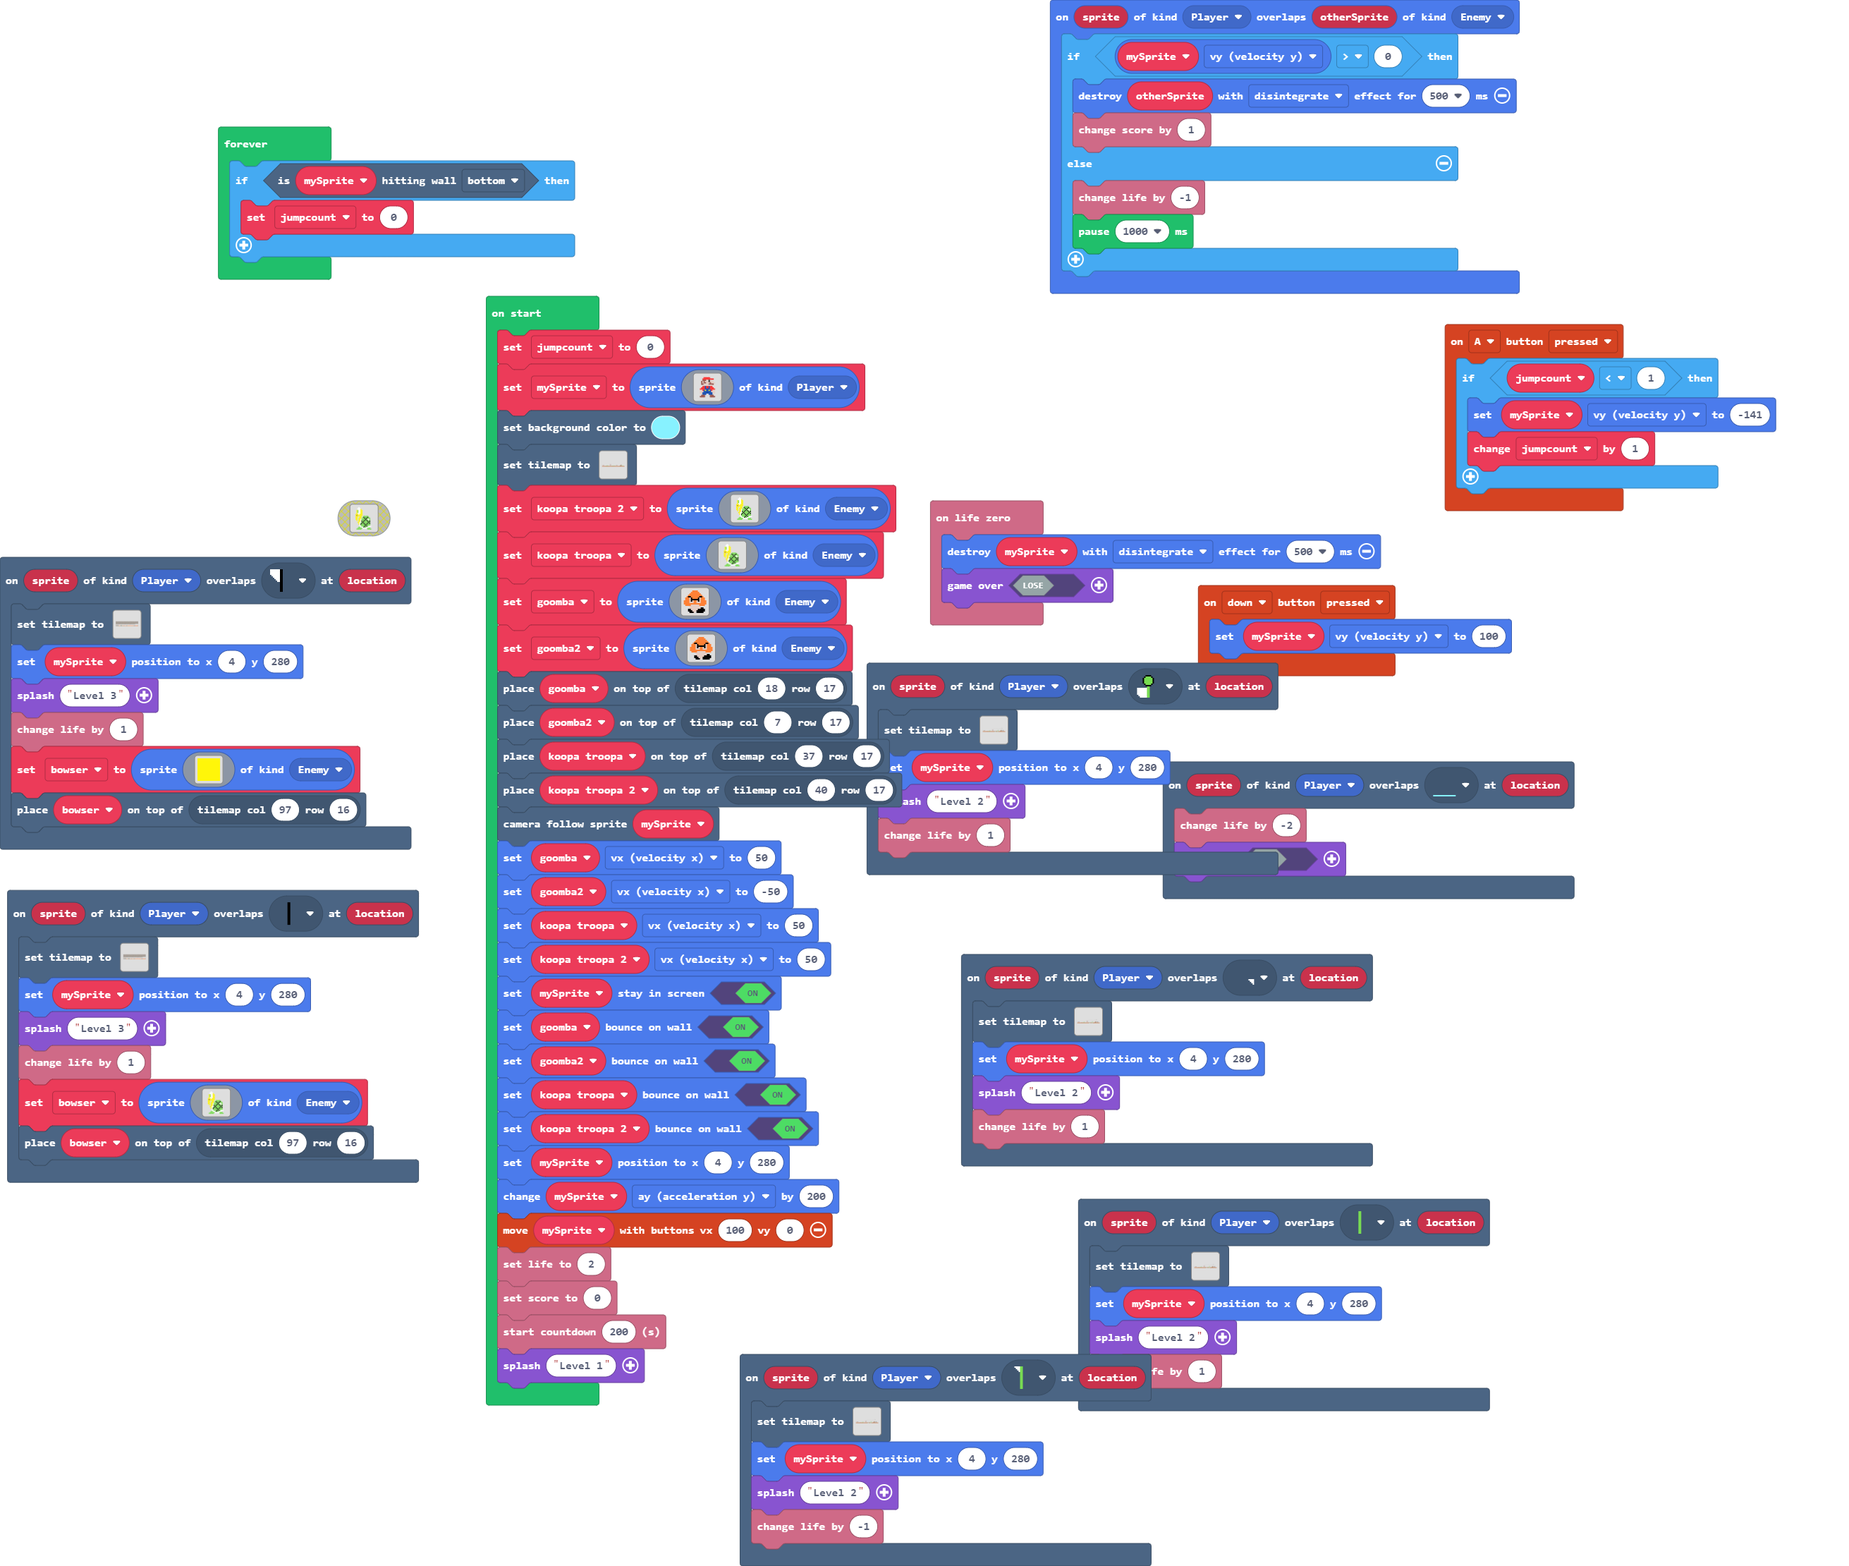
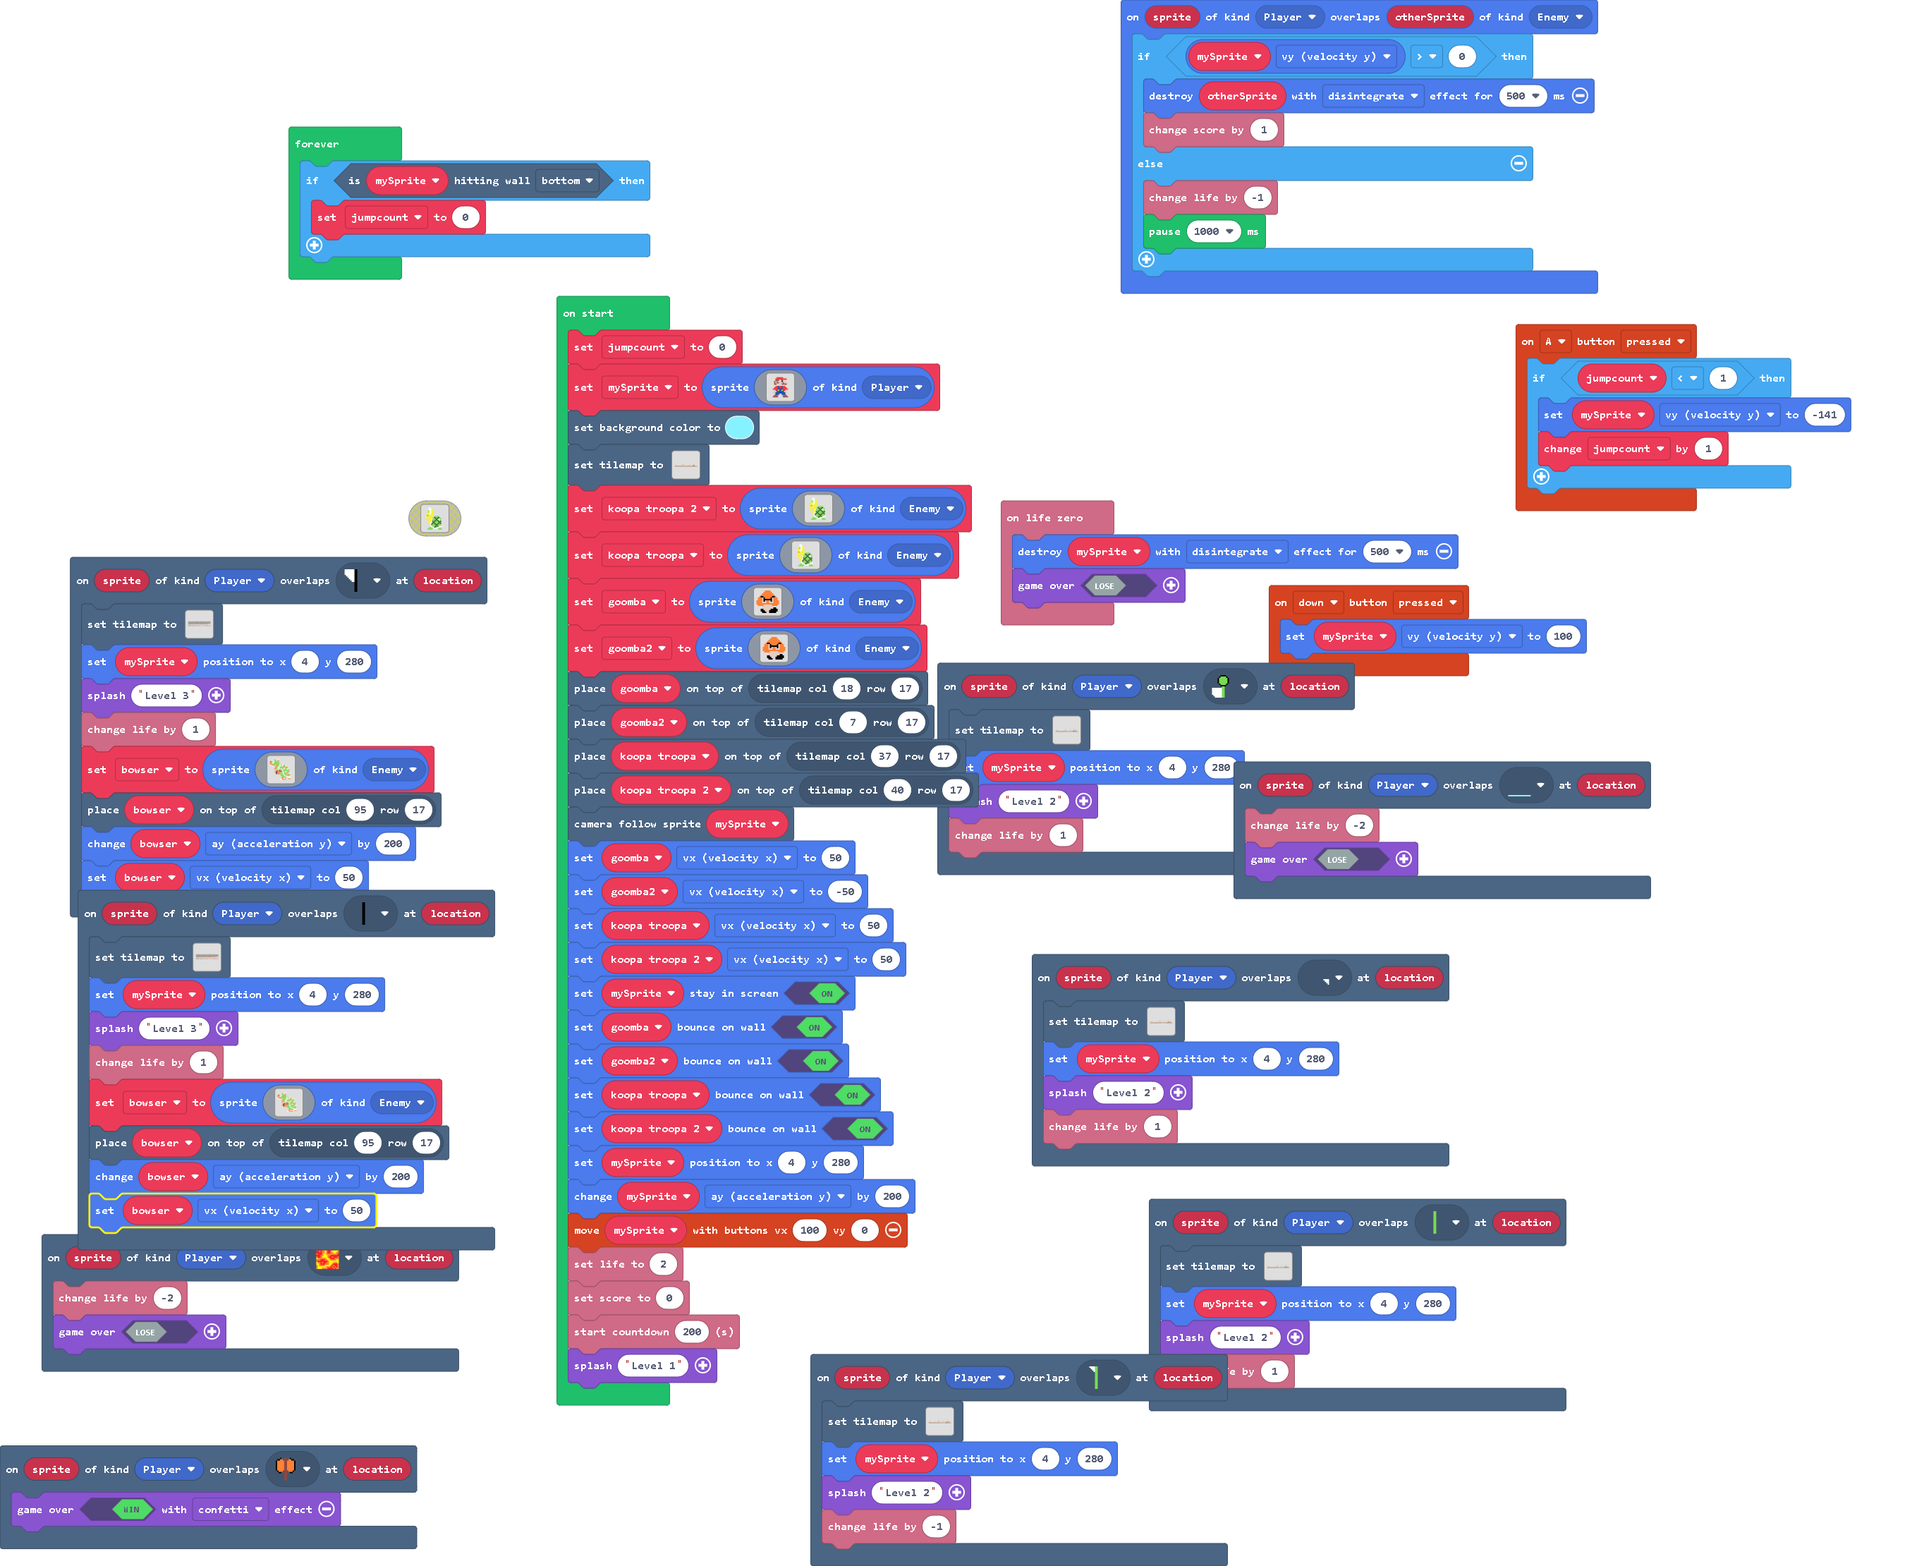
Update main.blocks, main.ts, tilemap.g.jres, tilemap.g.ts

diff --git a/tilemap.g.ts b/tilemap.g.ts
@@ -361,7 +361,7 @@ namespace myTiles {
 222222222222222222222222222222222222222222222222222222....2222222...22222222222222222222222222222222
 `, [myTiles.transparency16,myTiles.tile2,myTiles.tile3,myTiles.tile4,myTiles.tile5,myTiles.tile10,myTiles.tile11,myTiles.tile13,myTiles.tile14,myTiles.tile15,myTiles.tile16,myTiles.tile18], TileScale.Sixteen);
             case "level15":
-            case "level15":return tiles.createTilemap(hex`640014000101010101010101010101010101010101010101010101010101010101010101010101010101010101010101010101010101010101010101010101010101010101010101010101010101010101010101010101010101010101010101010101010101010101010101010101010101010101010101010101010101010101010101010101010101010101010101010101010101010101010101010101010101010101010101010101010101010101010101010101010101010101010101010101010101010101010101010101010101010101010101010101010101010101010101010101010101010101010101010101010101010101010101010101010101010101010101010101010101010101010101010101010101010101010101010101010101010101010101010101010101010101010101010101010101010101010101010101010101010101010101010101010101010101010101010101010101010101010101010101010101010101010101010101010101010101010101010101010101010101010101010101010101010101010101010101010101010101010101010101010101010101010101010101010101010101010101010101010101010101010101010101010101010101010101010101010101010101010101010101010101010101010101010101010101010101010101010101010101010101010101010101010101010101010101010101010101010101010101010101010101010101010101010101010101010101010101010101010101010101010101010101010101010101010101010101010101010101010101010101010101010101010101010101010101010101010101010101010101010101010101010101010101010101010101010101010101010101010101010101010101010101010101010101010101010101010101010101010101010101010101010101010101010101010101010101010101010101010101010101010101010101010101010101010101010101010101010101010101010101010101010101010101010101010101010101010101010101010101010101010101010101010101010101010101010101010101010101010101010101010101010101010101010101010101010101010101010101010101010101010101010101010101010101010101010101010101010101010101010101010101010101010101010101010101010101010101010101010101010101010101010101010101010101010101010101010101010101010101010101010101010101010101010101010101010101010101010101010101010101010101010101010101010101010101010101010101010101010101010101010101010101010101010101010101010101010101010101010101010101010101010101010101010101010101010101010101010101010101010101010101010101010101010101010101010101010101010101010101010101010101010101010000000000000000000000000001010101010101010101010101010101010101010101010101010101010101010101010101010101010101010101010101010101010101010101010101010101010101010101010101010101010101010101010101010100000000000000000000000000010000000000000000000000000000000000000000000000000000000000000000000000000000000000000000000000000000000000000000000000000000000000000000000000000000000000000000000000000000000000000000000000000000000000000000000000000000000000000000000000000000000000000000000000000000000000000000000000000000000000000000000000000000000000000000000000000000000000000000000000000000000000000000000000000000000000000000000000000000000000000000000000000000000000000000000000000000000000000000000000000000000000000000000000000000000000000000000000000000000000000000000000000000000000000000000000000000000000000000000000000103010100000001010301000000000000000000000000000000000000000000000000000000000000000000000000000000000000000000000000000000000000000000000000000000000000000000000000000000000000000000000000000000000000000000000000000000000000000000000000000000000004000000000000000000000000000000000000000000000000000000000000000000000000020202020000000000000000000000000000000000000000000000000000000000000000000000000000000000000000000000060600000000000000000000080000000000000000000000000000000000000000000000000000000000020202000000000000000000000000020202000000020200000000000000000000000000000000000000000000070101010101010101010101010101000000000000010101010101010101000000000000010101000000000000000000010101010000000000000000000000000000000000000000000000000000000000010101010101020202020202020202020202010101010101010101010101010101010505050505050101010101010101010505050505050101010505050505050505050101010105050505050505050505050505050505050505050505050505050505050101010101010505050505050505050505050101`, img`
+            case "level15":return tiles.createTilemap(hex`640014000101010101010101010101010101010101010101010101010101010101010101010101010101010101010101010101010101010101010101010101010101010101010101010101010101010101010101010101010101010101010101010101010101010101010101010101010101010101010101010101010101010101010101010101010101010101010101010101010101010101010101010101010101010101010101010101010101010101010101010101010101010101010101010101010101010101010101010101010101010101010101010101010101010101010101010101010101010101010101010101010101010101010101010101010101010101010101010101010101010101010101010101010101010101010101010101010101010101010101010101010101010101010101010101010101010101010101010101010101010101010101010101010101010101010101010101010101010101010101010101010101010101010101010101010101010101010101010101010101010101010101010101010101010101010101010101010101010101010101010101010101010101010101010101010101010101010101010101010101010101010101010101010101010101010101010101010101010101010101010101010101010101010101010101010101010101010101010101010101010101010101010101010101010101010101010101010101010101010101010101010101010101010101010101010101010101010101010101010101010101010101010101010101010101010101010101010101010101010101010101010101010101010101010101010101010101010101010101010101010101010101010101010101010101010101010101010101010101010101010101010101010101010101010101010101010101010101010101010101010101010101010101010101010101010101010101010101010101010101010101010101010101010101010101010101010101010101010101010101010101010101010101010101010101010101010101010101010101010101010101010101010101010101010101010101010101010101010101010101010101010101010101010101010101010101010101010101010101010101010101010101010101010101010101010101010101010101010101010101010101010101010101010101010101010101010101010101010101010101010101010101010101010101010101010101010101010101010101010101010101010101010101010101010101010101010101010101010101010101010101010101010101010101010101010101010101010101010101010101010101010101010101010101010101010101010101010101010101010101010101010101010101010101010101010101010101010101010101010101010101010101010101010101010101010101010101010101010101010101010101010101010101010000000000000000000000000001010101010101010101010101010101010101010101010101010101010101010101010101010101010101010101010101010101010101010101010101010101010101010101010101010101010101010101010101010100000000000000000000000000010000000000000000000000000000000000000000000000000000000000000000000000000000000000000000000000000000000000000000000000000000000000000000000000000000000000000000000000000000000000000000000000000000000000000000000000000000000000000000000000000000000000000000000000000000000000000000000000000000000000000000000000000000000000000000000000000000000000000000000000000000000000000000000000000000000000000000000000000000000000000000000000000000000000000000000000000000000000000000000000000000000000000000000000000000000000000000000000000000000000000000000000000000000000000000000000000000000000000000000000000103010100000001010301000000000000000000000000000000000000000000000000000000000000000000000000000000000000000000000000000000000000000000000000000000000000000000000000000000000000000000000000000000000000000000000000000000000000000000000000000000000004000000000000000000000000000000000000000000000000000000000000000000000000020202020000000000000000000000000000000000000000000000000000000000000000000000000000000000000000000000060100000000000001000000080000000100000000000001000100000000000000000100000001000000020202000000000000000000000000020202000000020200000001000000000100000000000000000000000001070101010101010101010101010101000000000000010101010101010101000000000000010101000000000000000001010101010000000000000000000000000000000000000000000000000000000000010101010101020202020202020202020202010101010101010101010101010101010505050505050101010101010101010505050505050101010505050505050505010101010105050505050505050505050505050505050505050505050505050505050101010101010505050505050505050505050101`, img`
 2222222222222222222222222222222222222222222222222222222222222222222222222222222222222222222222222222
 2222222222222222222222222222222222222222222222222222222222222222222222222222222222222222222222222222
 2222222222222222222222222222222222222222222222222222222222222222222222222222222222222222222222222222
@@ -379,9 +379,9 @@ namespace myTiles {
 ....................................................................................................
 2222...2222.........................................................................................
 ........................2....................................2222...................................
-........................2.............................222............222...22......................2
-22222222222222......222222222......222.........2222.............................22222222222222222222
-22222222222222......222222222......222.........2222.............................222222............22
+.............2......2...2...2......2.2........2...2...222............222...22...2....2............2.
+22222222222222......222222222......222........22222.............................22222222222222222222
+22222222222222......222222222......222........22222.............................222222............22
 `, [myTiles.transparency16,myTiles.tile17,myTiles.tile19,myTiles.tile2,myTiles.tile10,myTiles.tile20,myTiles.tile21,myTiles.tile22,myTiles.tile11], TileScale.Sixteen);
         }
         return null;

diff --git a/main.ts b/main.ts
@@ -19,46 +19,56 @@ scene.onOverlapTile(SpriteKind.Player, assets.tile`myTile4`, function (sprite, l
     game.splash("Level 2")
     info.changeLifeBy(1)
 })
+scene.onOverlapTile(SpriteKind.Player, assets.tile`myTile18`, function (sprite, location) {
+    info.changeLifeBy(-2)
+    game.over(false)
+})
 scene.onOverlapTile(SpriteKind.Player, assets.tile`myTile16`, function (sprite, location) {
     tiles.setTilemap(tilemap`level15`)
     mySprite.setPosition(4, 280)
     game.splash("Level 3")
     info.changeLifeBy(1)
     bowser = sprites.create(img`
-        55555555555555555555555555555555
-        55555555555555555555555555555555
-        55555555555555555555555555555555
-        55555555555555555555555555555555
-        55555555555555555555555555555555
-        55555555555555555555555555555555
-        55555555555555555555555555555555
-        55555555555555555555555555555555
-        55555555555555555555555555555555
-        55555555555555555555555555555555
-        55555555555555555555555555555555
-        55555555555555555555555555555555
-        55555555555555555555555555555555
-        55555555555555555555555555555555
-        55555555555555555555555555555555
-        55555555555555555555555555555555
-        55555555555555555555555555555555
-        55555555555555555555555555555555
-        55555555555555555555555555555555
-        55555555555555555555555555555555
-        55555555555555555555555555555555
-        55555555555555555555555555555555
-        55555555555555555555555555555555
-        55555555555555555555555555555555
-        55555555555555555555555555555555
-        55555555555555555555555555555555
-        55555555555555555555555555555555
-        55555555555555555555555555555555
-        55555555555555555555555555555555
-        55555555555555555555555555555555
-        55555555555555555555555555555555
-        55555555555555555555555555555555
+        ...................................
+        ............111....................
+        ........771114.....................
+        .......7771144.....................
+        .4...117777447.....................
+        4f4.7117777777.....................
+        444771177777777....................
+        444111777477777....................
+        444417774447777....................
+        144477441747777117711..............
+        .1.44447774777711771147............
+        .1.117177147777117111447111........
+        ....1...7447771117714477114........
+        ........144771117777777774471......
+        ........447711177777777777771......
+        ......14447711177777711177777......
+        .......44..7711111177114771111.....
+        .............77444117744777114.....
+        .........444..1f44411777777744.....
+        ........441f444f144717777777771....
+        ........44ff4444ff77177711177741...
+        ........41f4444441771177114777.....
+        ........4ff44444777711777447711....
+        .........1f444447777117777777111...
+        ..........f1444.777771777711744....
+        ................777771177747747....
+        .................77777117777777....
+        ..................7777711117777....
+        ...................7777771111111...
+        ...................4477444411111...
+        ..................4444114411411....
+        .................114411141114444...
+        ................1114444444.........
         `, SpriteKind.Enemy)
-    tiles.placeOnTile(bowser, tiles.getTileLocation(97, 16))
+    tiles.placeOnTile(bowser, tiles.getTileLocation(95, 17))
+    bowser.ay += 200
+    bowser.vx = 50
+})
+scene.onOverlapTile(SpriteKind.Player, assets.tile`myTile20`, function (sprite, location) {
+    game.over(true, effects.confetti)
 })
 controller.down.onEvent(ControllerButtonEvent.Pressed, function () {
     mySprite.vy = 100
@@ -85,31 +95,45 @@ scene.onOverlapTile(SpriteKind.Player, assets.tile`myTile14`, function (sprite, 
     game.splash("Level 3")
     info.changeLifeBy(1)
     bowser = sprites.create(img`
-        ...1............
-        ..111...........
-        ..1115..........
-        .571155.........
-        .571155.........
-        .571155.........
-        .511155.........
-        5551555.........
-        5e55555.........
-        555.55..77777...
-        55..55.7f777f7..
-        55.555.77f7f777.
-        55.5517777f7117.
-        .5.551777f7f717.
-        ...551f7f777f7f.
-        ..55117f77777f7.
-        ...517f7f777f7f.
-        ...51f777f7f777.
-        ....177777f7777.
-        ....11777f7f7111
-        ...77111f77111..
-        ..7777711111777.
-        .77777......7777
+        ......................................
+        ............111.......................
+        ........771114........................
+        .......7771144........................
+        .4...117777447........................
+        4f4.7117777777........................
+        444771177777777.......................
+        444111777477777.......................
+        444417774447777.......................
+        144477441747777117711.................
+        .1.44447774777711771147...............
+        .1.117177147777117111447111...........
+        ....1...7447771117714477114...........
+        ........144771117777777774471.........
+        ........447711177777777777771.........
+        ......14447711177777711177777.........
+        .......44..7711111177114771111........
+        .............77444117744777114........
+        .........444..1f44411777777744........
+        ........441f444f144717777777771.......
+        ........44ff4444ff77177711177741......
+        ........41f4444441771177114777........
+        ........4ff44444777711777447711.......
+        .........1f444447777117777777111......
+        ..........f1444.777771777711744.......
+        ................777771177747747.......
+        .................77777117777777.......
+        ..................7777711117777.......
+        ...................7777771111111......
+        ...................4477444411111......
+        ..................4444114411411.......
+        .................114411141114444......
+        ................1114444444............
+        ......................................
+        ......................................
         `, SpriteKind.Enemy)
-    tiles.placeOnTile(bowser, tiles.getTileLocation(97, 16))
+    tiles.placeOnTile(bowser, tiles.getTileLocation(95, 17))
+    bowser.ay += 200
+    bowser.vx = 50
 })
 scene.onOverlapTile(SpriteKind.Player, assets.tile`myTile11`, function (sprite, location) {
     info.changeLifeBy(-2)
